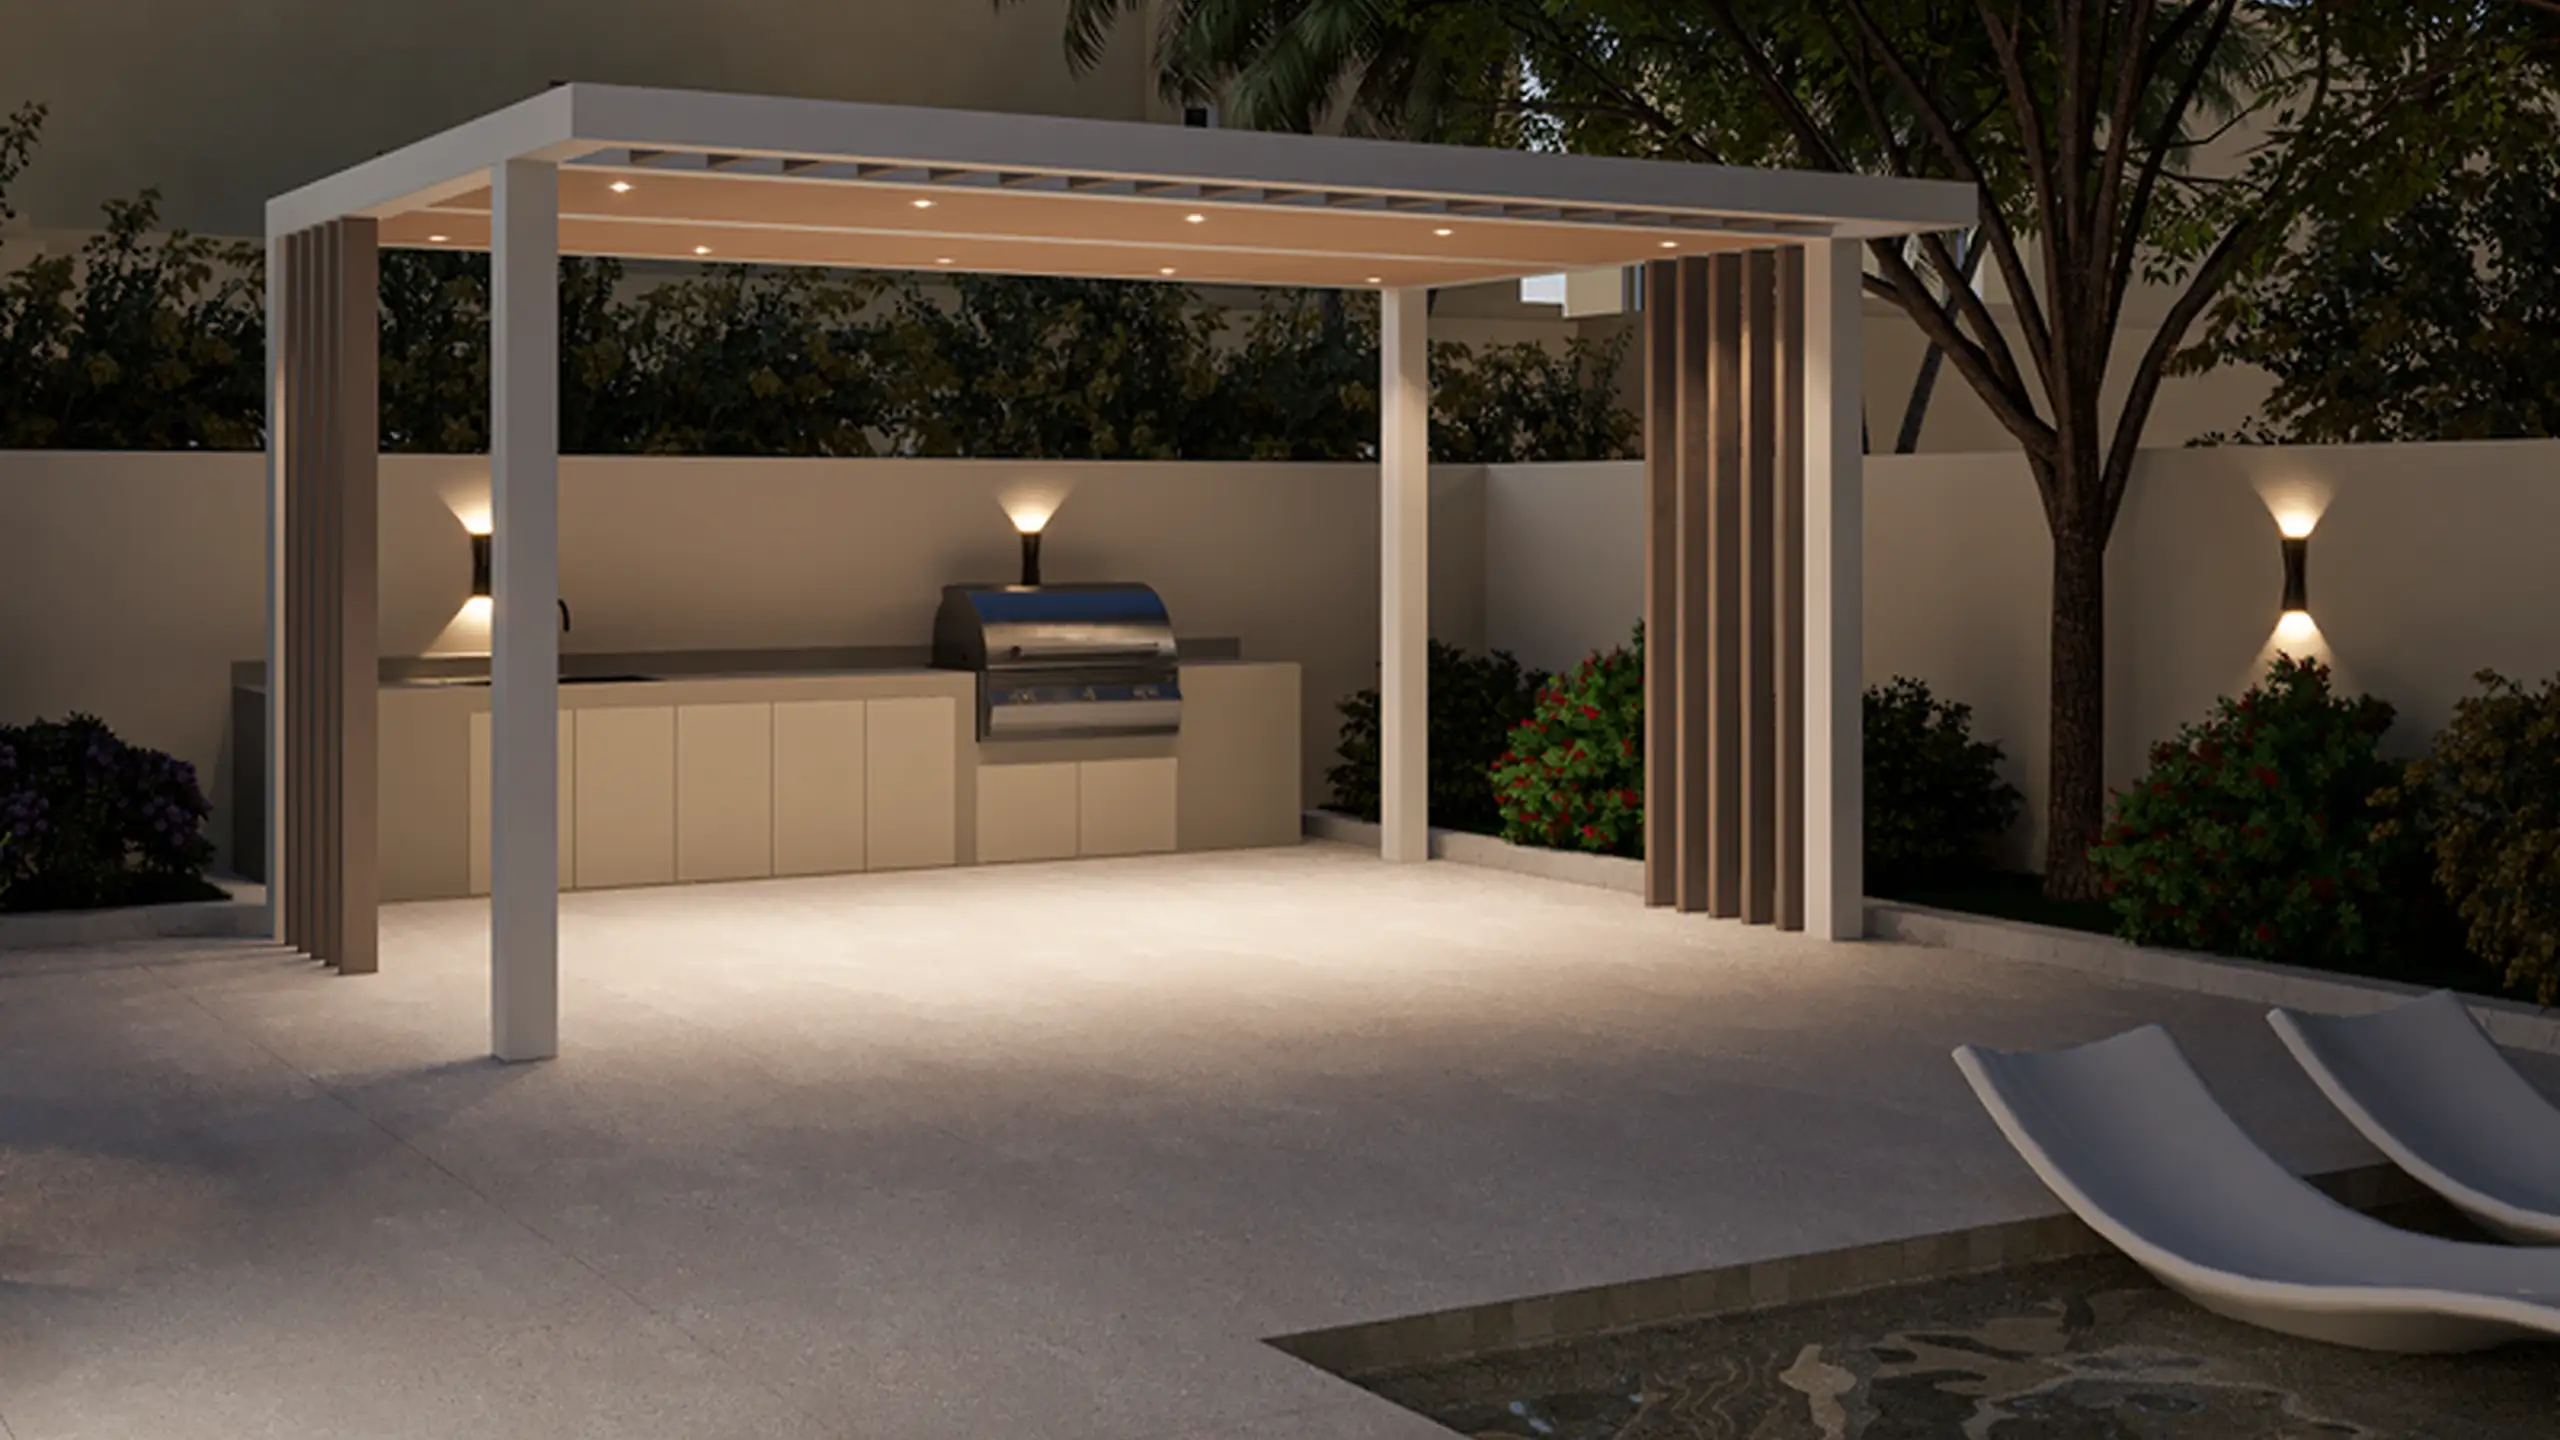
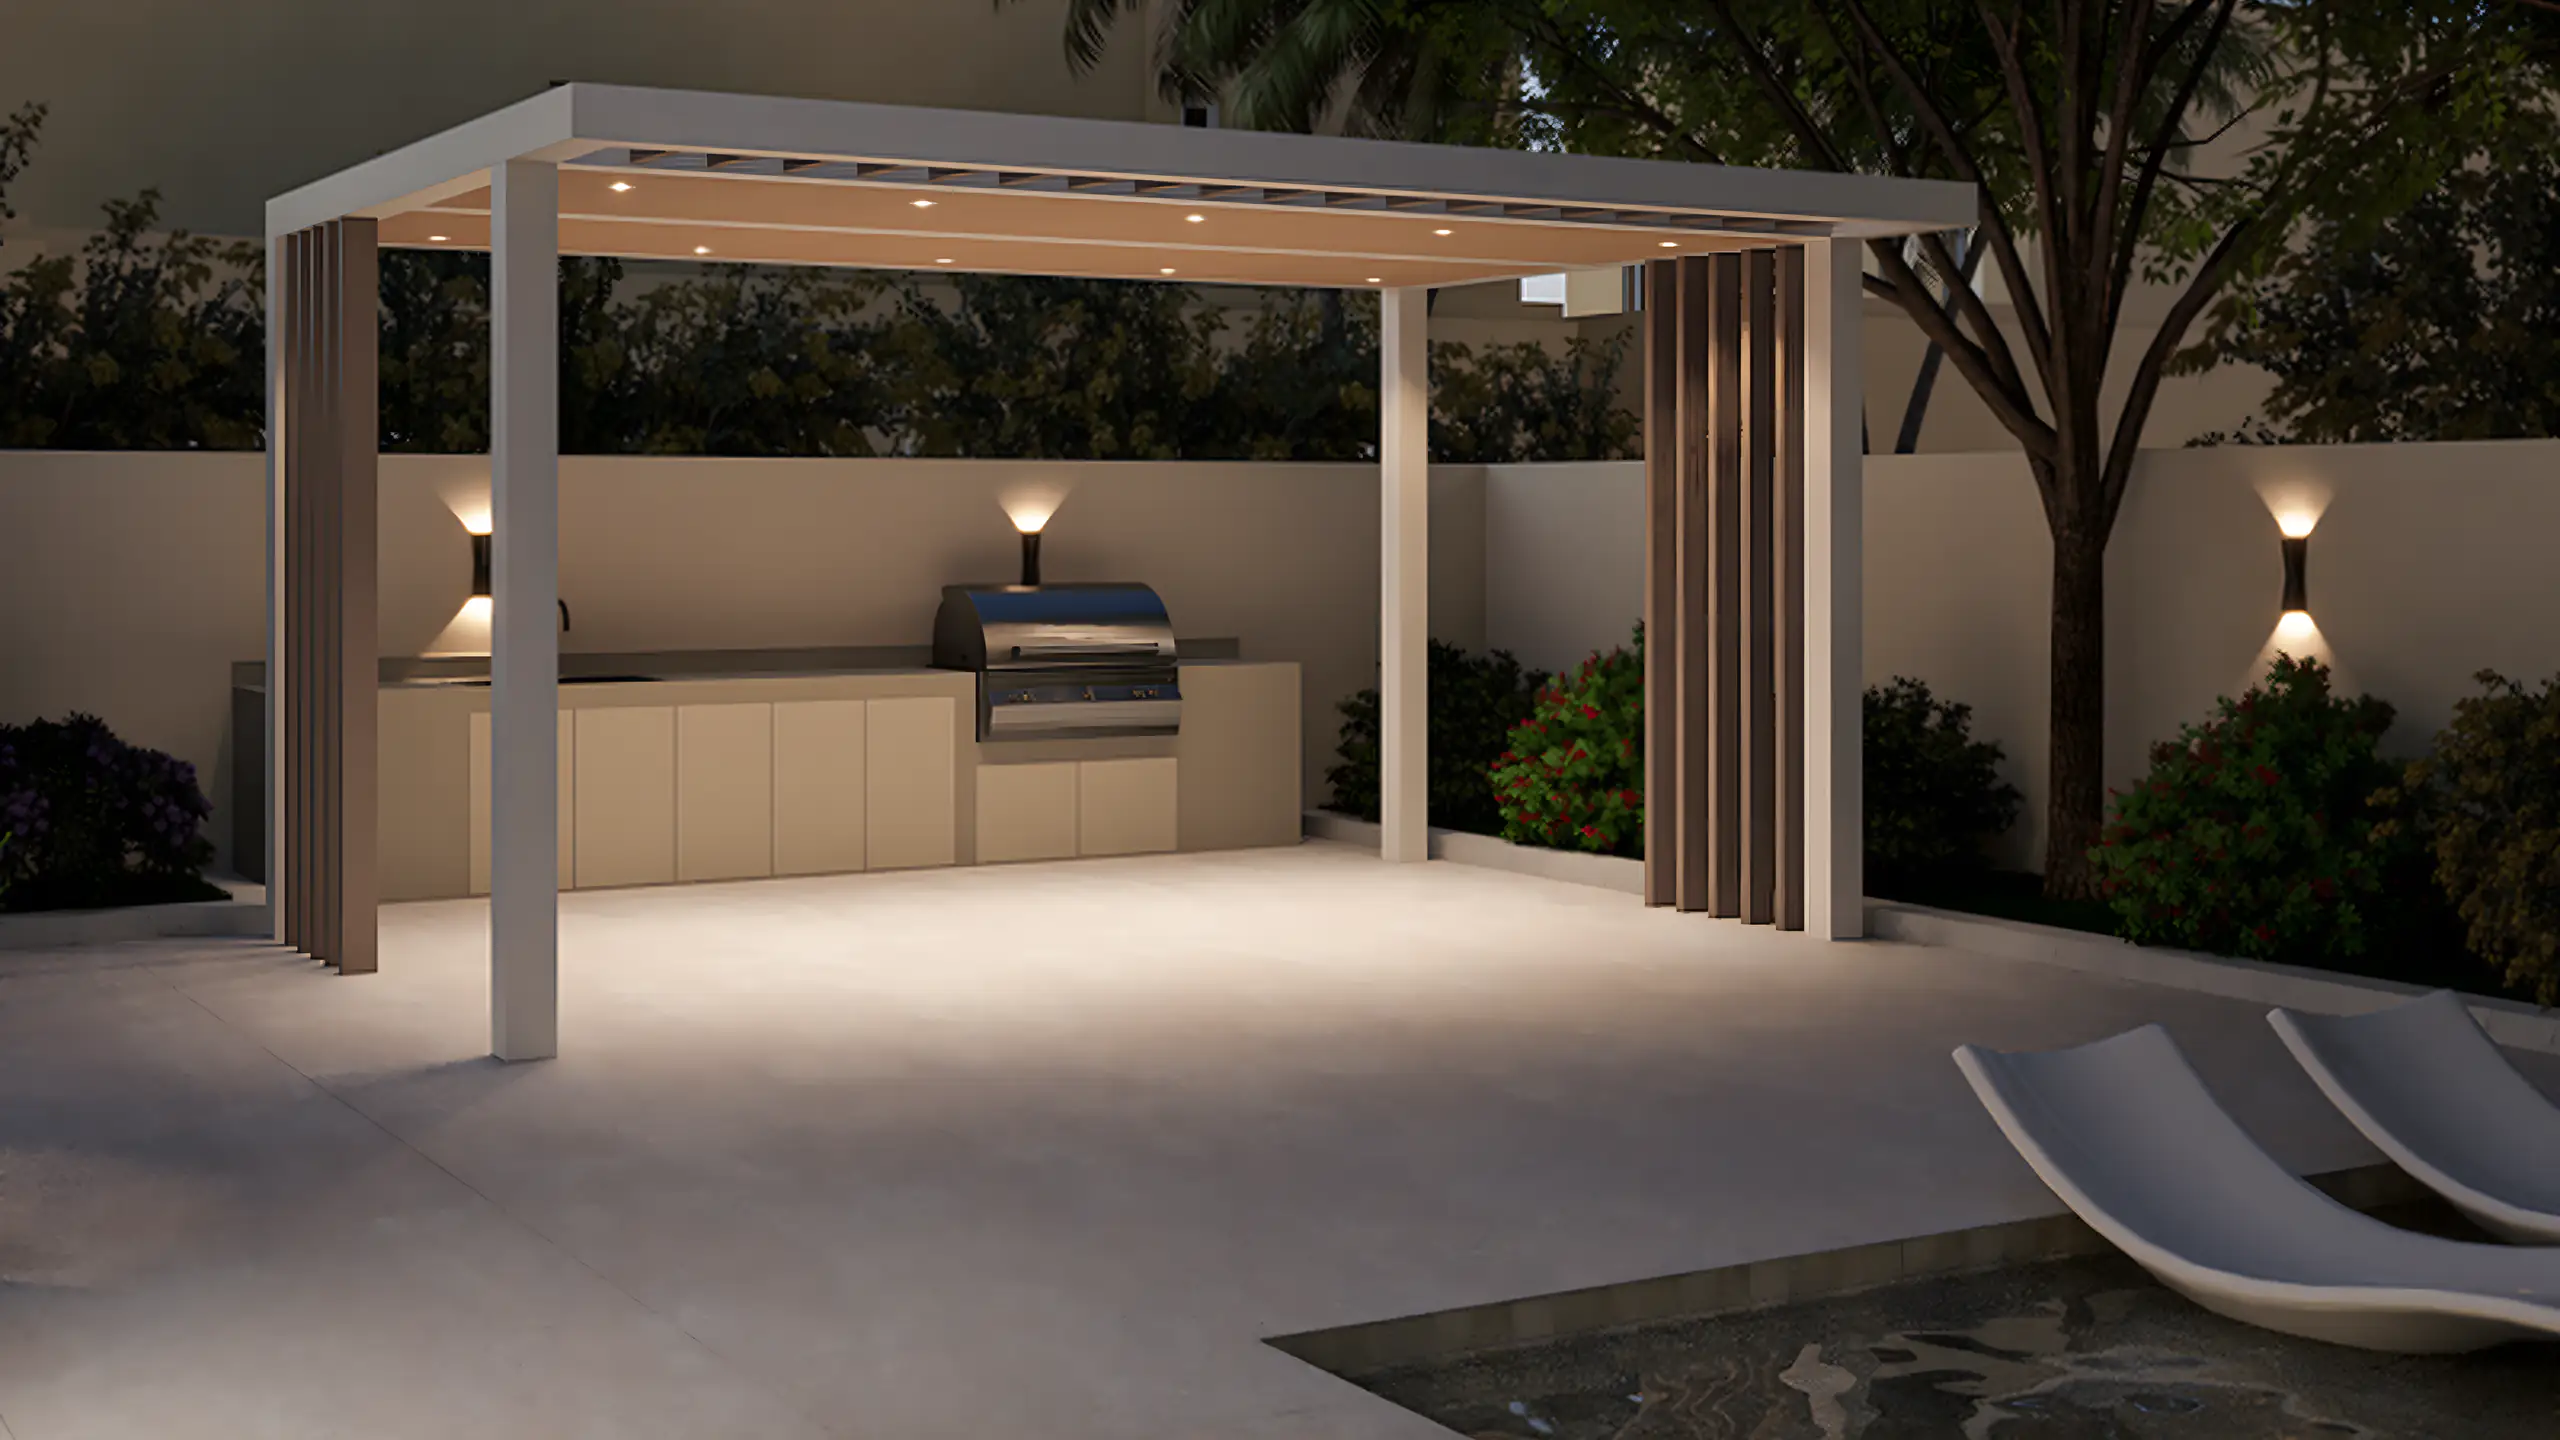
feat: landing hero images AI-upscaled 4x (Real-ESRGAN x4plus) with a new 3840 size for 4K and retina screens
- Bedroom and JLT office 1920 -> 7680 px, pergola 3200 -> 12800 px, run locally (owner approved); files made from these
- Phone copies (640, 1080) stay within their previous weights (exception E5 still holds); grain filter on the bedroom
- heroLoader: requests wider than 2560 now get the -3840 file

diff --git a/site/src/components/HeroSlider.tsx b/site/src/components/HeroSlider.tsx
@@ -50,9 +50,9 @@ const FRAGMENT = `
     gl_FragColor = mix(b, a, m);
   }`;
 
-// The hero photos come as ready-sized files (-640, -1080, -1920, -2560 .webp in /images/hero), served as they are: nothing is
+// The hero photos come as ready-sized files (-640, -1080, -1920, -2560, -3840 .webp in /images/hero; AI-upscaled 4x, 24 Nov 2026), served as they are: nothing is
 // processed on the first request, so the picture is there as soon as it has downloaded.
-const heroLoader = ({ src, width }: { src: string; width: number }) => src.replace(/\.webp$/, `-${width <= 640 ? 640 : width <= 1200 ? 1080 : width <= 1920 ? 1920 : 2560}.webp`);
+const heroLoader = ({ src, width }: { src: string; width: number }) => src.replace(/\.webp$/, `-${width <= 640 ? 640 : width <= 1200 ? 1080 : width <= 1920 ? 1920 : width <= 2560 ? 2560 : 3840}.webp`);
 
 type GL = { show(index: number): void; go(from: number, to: number): Promise<void>; dispose(): void };
 
